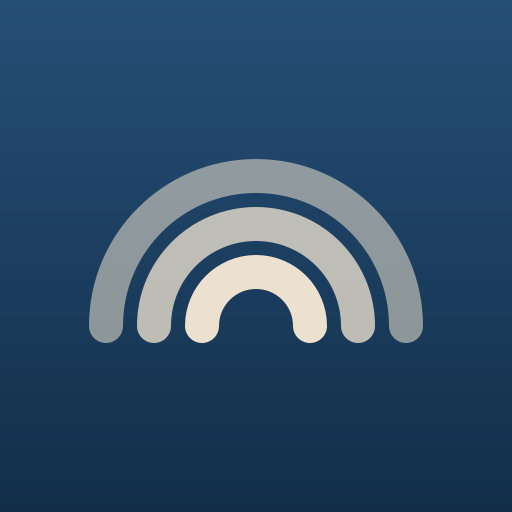
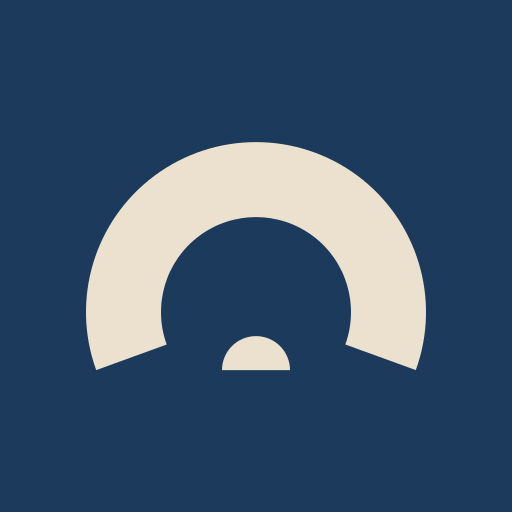
feat(brand): mark a diagramma parlamentare, un colore piatto
Il logo a tre archi con opacita decrescente si impastava a 16px e
l'opacita a scalare piu il gradiente dell'icona sono pattern tipici
del design generato da AI. Il nuovo mark e un settore di corona a 220
gradi (la forma dei diagrammi parlamentari reali) con la cupola
dell'oratore nell'apertura: una forma sola, colore pieno, leggibile
da favicon a icona iOS. Dimensioni nei componenti riallineate al
nuovo aspect (~2:3).

Changed region(s): [[0.1562, 0.25, 0.8438, 0.75], [0.0, 0.0, 1.0, 0.0312]]

diff --git a/frontend/src/app/page.tsx b/frontend/src/app/page.tsx
@@ -162,7 +162,7 @@ export default function LandingPage() {
           {/* Wordmark row */}
           <div className="flex flex-wrap items-center justify-between gap-x-6 gap-y-3 py-5">
             <div className="flex items-center gap-3">
-              <Image src="/logo-blue.svg" alt="" width={46} height={26} />
+              <Image src="/logo-blue.svg" alt="" width={46} height={32} />
               <span className="[font-family:var(--font-display)] text-2xl sm:text-3xl font-semibold tracking-tight">
                 ParliamentRAG
               </span>
@@ -463,7 +463,7 @@ export default function LandingPage() {
           {/* Brand + resource links */}
           <div className="flex flex-col sm:flex-row sm:items-center justify-between gap-x-8 gap-y-5">
             <div className="flex items-center gap-2.5 shrink-0">
-              <Image src="/logo-blue.svg" alt="" width={27} height={15} />
+              <Image src="/logo-blue.svg" alt="" width={26} height={18} />
               <span className="[font-family:var(--font-display)] text-sm font-medium text-foreground">
                 ParliamentRAG
               </span>

diff --git a/frontend/src/app/data/page.tsx b/frontend/src/app/data/page.tsx
@@ -203,7 +203,7 @@ export default function DataPage() {
       <header className="border-b border-primary-foreground/20">
         <div className="max-w-6xl mx-auto px-6 flex items-center justify-between py-5">
           <Link href="/" className="flex items-center gap-3">
-            <Image src="/logo.svg" alt="" width={46} height={26} />
+            <Image src="/logo.svg" alt="" width={46} height={32} />
             <span className="[font-family:var(--font-display)] text-xl sm:text-2xl font-semibold tracking-tight">
               ParliamentRAG
             </span>

diff --git a/frontend/src/components/layout/Sidebar.tsx b/frontend/src/components/layout/Sidebar.tsx
@@ -125,7 +125,7 @@ export function Sidebar({ isCollapsed, onToggle, isQueryRunning = false, isQueui
               onClick={() => window.location.href = "/"}
             >
               <div className="flex h-10 w-10 shrink-0 items-center justify-center text-sidebar-foreground">
-                <Image src="/logo.svg" alt={config.app.name} width={36} height={36} />
+                <Image src="/logo.svg" alt={config.app.name} width={37} height={26} />
               </div>
               {!isCollapsed && (
                 <div className="flex flex-col fade-in">

diff --git a/frontend/src/app/privacy/page.tsx b/frontend/src/app/privacy/page.tsx
@@ -15,7 +15,7 @@ export default function PrivacyPage() {
       <header className="px-6 py-5 border-b border-border">
         <div className="max-w-3xl mx-auto flex items-center justify-between">
           <Link href="/" className="flex items-center gap-2.5">
-            <Image src="/logo-blue.svg" alt="" width={27} height={15} />
+            <Image src="/logo-blue.svg" alt="" width={26} height={18} />
             <span className="[font-family:var(--font-display)] text-sm font-medium text-foreground">
               ParliamentRAG
             </span>
